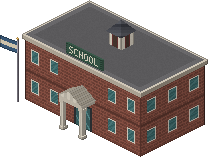
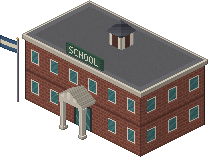
School: a full row of windows upstairs
The two middle window columns were skipped on both floors, leaving a blank
strip over the entrance. Only the ground floor loses them now (to the door).

Changed region(s): [[0.4038, 0.4841, 0.4904, 0.6115], [0.3173, 0.4331, 0.375, 0.5605]]

diff --git a/tools/art.py b/tools/art.py
@@ -1408,7 +1408,7 @@ def school(seed):
     a, b, fh, floors = 1.8, 1.0, 30, 2
     x0, y0 = -a / 2, -b / 2
     hgt = floors * fh + 4
-    civic_walls(s, x0, y0, a, b, hgt, floors, fh, "#7d4a3e", "brick", spans(6, skip=(2, 3)), spans(3),
+    civic_walls(s, x0, y0, a, b, hgt, floors, fh, "#7d4a3e", "brick", spans(6), spans(3),
                 (0.43, 0.57))
     cornice(s, x0, y0, a, b, hgt)
     flat_roof(s, x0, y0, a, b, hgt + 1, "#5b5a5c", units=0)
